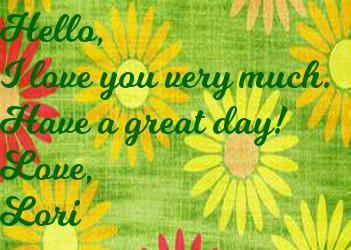
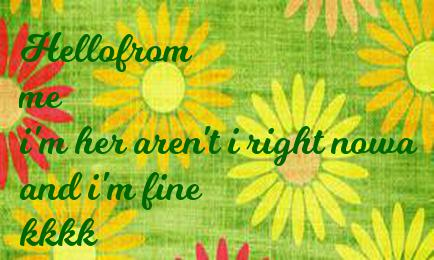
still perfecting

Changed region(s): [[0.0, 0.028, 0.9687, 0.952], [0.2849, 0.868, 0.3134, 0.896]]

diff --git a/helper.py b/helper.py
@@ -8,18 +8,30 @@ import pyimgur
 
 
 def make_jpg(im, color, message):
+    lines = message.splitlines()
+    max_length = 0
+    for line in lines:
+        if len(line.strip()) > max_length:
+            max_length = len(line.strip())
     im = Image.open(im)
     fontsize = 40
     font = ImageFont.truetype("Milkshake.ttf", fontsize)
     img = Image.new("RGBA", (1, 1))
     draw = ImageDraw.Draw(img)
     textsize = draw.textsize(message, font)
-    A = textsize[0] + 20
-    B = textsize[1] + 20
+    A = textsize[0] + 30
+    B = textsize[1] + 30
     textsize = (A, B)
     im = im.resize(textsize, PIL.Image.ANTIALIAS)    
     draw = ImageDraw.Draw(im)
-    draw.text((0, 0), message, color, font)
+    if max_length <= 5:
+        coordinates = (6, 1)
+    elif max_length <= 10:
+        coordinates = (10, 5)
+    else:
+        coordinates = (20, 20)
+
+    draw.text(coordinates, message, color, font)
     im.save('testing.jpg') 
     return im
 
